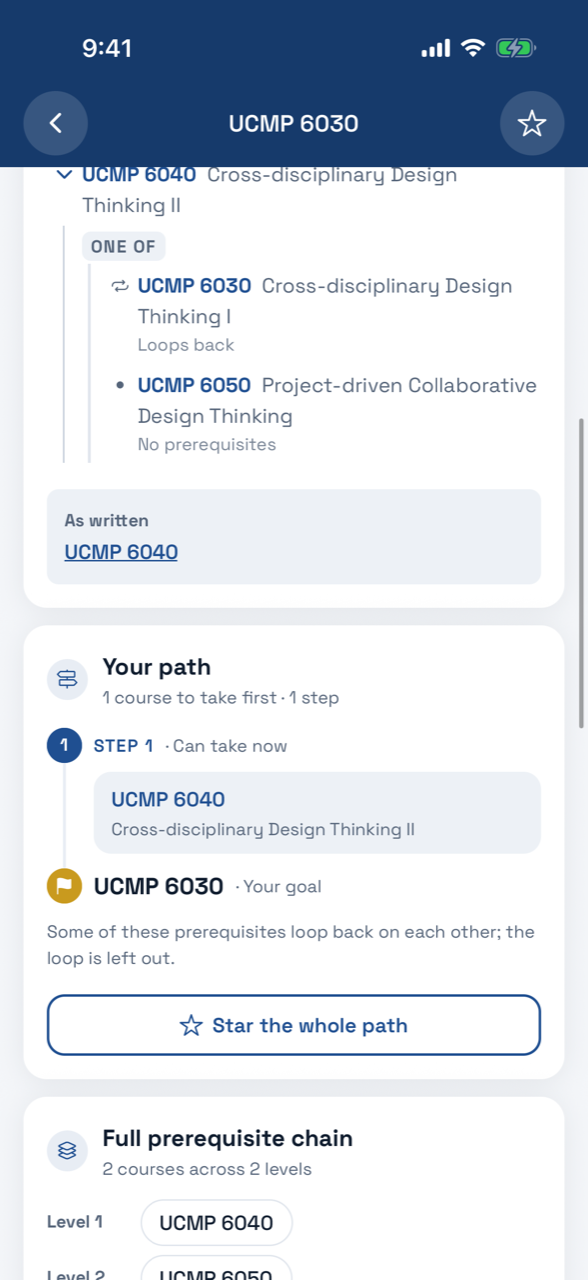
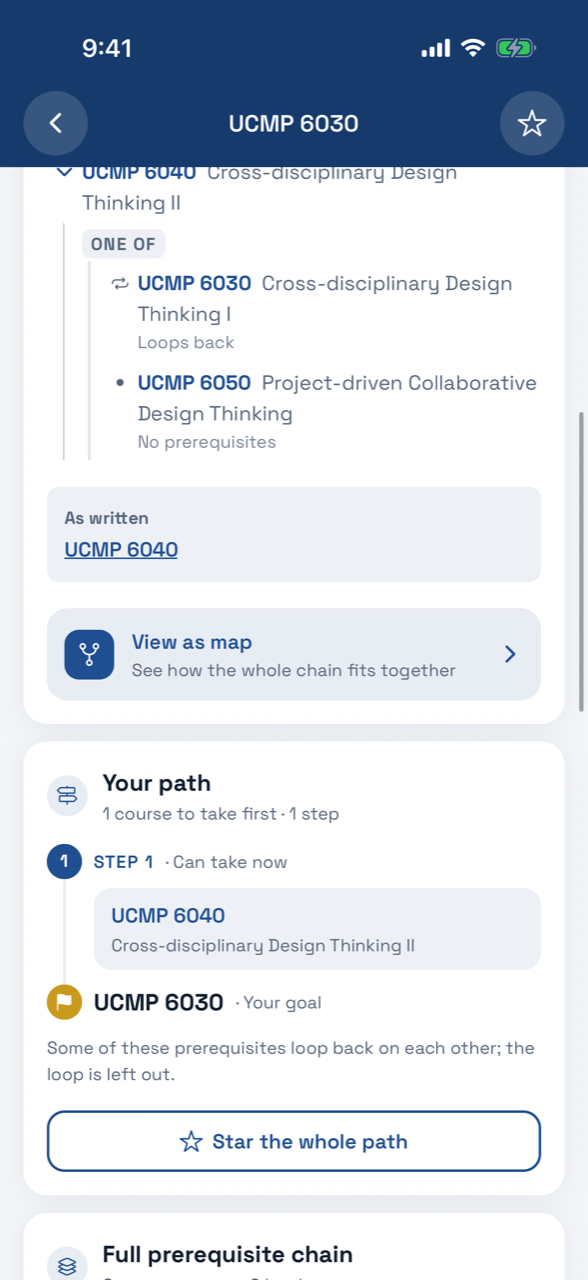
README: course map demo, screenshot and explanation; D20
- Three demo GIFs (find, map, plan) and a 10-screen gallery with the map
- README: the map in features and the at-a-glance table, how the layout works,
  timings, 71 tests and 7 flows, Android caveat now covers the map
- DECISIONS D20, BUILD-LOG 15; map demo flow and screenshot step

diff --git a/README.md b/README.md
@@ -4,12 +4,14 @@ A React Native + Expo app for browsing HKUST courses, understanding their prereq
 
 <table>
   <tr>
-    <td align="center"><img src="docs/demos/explore.gif" width="260" alt="Demo: filter sheet, title search, a course page and its prerequisite tree" /></td>
-    <td align="center"><img src="docs/demos/plan.gif" width="260" alt="Demo: starring a course offers its prerequisites; Your path shows the route and shrinks as courses are completed" /></td>
+    <td align="center"><img src="docs/demos/explore.gif" width="240" alt="Demo: filter sheet, title search, a course page and its prerequisite tree" /></td>
+    <td align="center"><img src="docs/demos/map.gif" width="240" alt="Demo: the prerequisite map, selecting a course to light up its lineage, zooming and re-centring" /></td>
+    <td align="center"><img src="docs/demos/plan.gif" width="240" alt="Demo: starring a course offers its prerequisites; Your path shows the route and shrinks as courses are completed" /></td>
   </tr>
   <tr>
     <td align="center"><b>Find a course</b><br/>Filter, search by title, follow the prerequisite tree</td>
-    <td align="center"><b>Plan the route</b><br/>Star with prerequisites, then watch "Your path" shrink as you complete courses</td>
+    <td align="center"><b>See the whole chain</b><br/>A zoomable map: select a course to light up its lineage</td>
+    <td align="center"><b>Plan the route</b><br/>Star with prerequisites, then watch "Your path" shrink</td>
   </tr>
 </table>
 
@@ -23,12 +25,12 @@ A React Native + Expo app for browsing HKUST courses, understanding their prereq
 | Browse and search | 4,030 courses; code and title search, ranked, with highlighted matches | [`catalog.ts`](app/data/catalog.ts) · Explore · `SearchAndOpenCourse` flow |
 | Filters | Term, level, department, "Unlocked for me", with a live result count | [`FilterSheet.tsx`](app/components/course/FilterSheet.tsx) · `FilterAndStar` flow |
 | Course details | Per-term content: credits, description, prerequisites, co-requisites, exclusions, attributes, outcomes | Course page |
-| **Prerequisite explorer** (required challenge) | Expandable AND/OR tree, tap to open any course, full chain, "Leads to" | [`parse.ts`](app/data/prereq/parse.ts), [`traverse.ts`](app/data/prereq/traverse.ts) · [how it works](#how-prerequisite-traversal-works) |
-| Cycles and missing courses | Real cycle (UCMP 6030 ↔ 6040) marked, not followed; missing courses and free text shown as such | `PrerequisiteCycle` flow · traversal tests |
+| **Prerequisite explorer** (required challenge) | Expandable AND/OR tree, tap to open any course, full chain, "Leads to", and a zoomable map of the whole chain | [`parse.ts`](app/data/prereq/parse.ts), [`traverse.ts`](app/data/prereq/traverse.ts), [`map.ts`](app/data/prereq/map.ts) · [how it works](#how-prerequisite-traversal-works) |
+| Cycles and missing courses | Real cycle (UCMP 6030 ↔ 6040) marked, not followed, in the tree and on the map; missing courses and free text shown as such | `PrerequisiteCycle`, `CourseMap` flows · traversal and map tests |
 | Optional features | Starring, completed courses and eligibility, "Unlocked for me", My Courses stats | [`evaluate.ts`](app/data/prereq/evaluate.ts) · `CompletionUnlocks` flow |
 | Beyond the brief | Star with prerequisites; "Your path", a planned route to any course | [`plan.ts`](app/data/prereq/plan.ts) · `StarPrerequisites`, `CoursePath` flows |
 | Documentation | Setup, architecture, data processing, traversal, assumptions; every decision and the build log | This README · [DECISIONS](docs/DECISIONS.md) · [BUILD-LOG](docs/BUILD-LOG.md) |
-| Quality | 62 Jest tests, 6 Maestro flows, data sweeps over every course and term, benchmarks | [Testing](#testing) · [Performance](#performance) |
+| Quality | 71 Jest tests, 7 Maestro flows, data sweeps over every course and term, benchmarks | [Testing](#testing) · [Performance](#performance) |
 
 ## What it does
 
@@ -43,6 +45,7 @@ A React Native + Expo app for browsing HKUST courses, understanding their prereq
 - Cycles are marked "↻ Loops back" instead of recursing (the data has a real one, `UCMP 6030 ↔ UCMP 6040`).
 - Courses missing from the catalogue and non-course requirements (HKDSE, IELTS…) are shown as such, and the original text is always shown under the tree.
 - Also: the **full chain** by level, and **"Leads to"**, the courses that list this one as a prerequisite.
+- **Course map** ([D20](docs/DECISIONS.md#d20--prerequisite-map-2026-09-27)): the whole chain and what the course leads to as a graph you can pan and pinch-zoom. "One of" groups meet at junctions, loops are dashed, completed and starred courses stand out, and your path is drawn through it. Tap a course to light up everything it needs and everything it feeds; re-centre the map on it to walk the curriculum.
 
 **Planning** *(beyond the brief)*:
 - **Completed courses** drive an eligibility check on every course page ("Still needed: one of COMP 2711 / COMP 2711H / MATH 2343") and the "Unlocked for me" filter: everything you can take next.
@@ -56,31 +59,29 @@ A React Native + Expo app for browsing HKUST courses, understanding their prereq
 
 <table>
   <tr>
-    <td><img src="docs/screenshots/explore.png" width="200" alt="Explore: the navy header, search and course cards" /></td>
-    <td><img src="docs/screenshots/filters.png" width="200" alt="Filter sheet with a live result count" /></td>
-    <td><img src="docs/screenshots/search.png" width="200" alt="Search with highlighted matches and active filter pills" /></td>
+    <td><img src="docs/screenshots/explore.png" width="150" alt="Explore: the navy header, search and course cards" /></td>
+    <td><img src="docs/screenshots/filters.png" width="150" alt="Filter sheet with a live result count" /></td>
+    <td><img src="docs/screenshots/search.png" width="150" alt="Search with highlighted matches and active filter pills" /></td>
+    <td><img src="docs/screenshots/course.png" width="150" alt="Course page: header, terms, and what's still needed" /></td>
+    <td><img src="docs/screenshots/prerequisites.png" width="150" alt="The prerequisite tree, expanded two levels" /></td>
   </tr>
   <tr>
     <td align="center"><sub>Explore</sub></td>
     <td align="center"><sub>Filters, with a live count</sub></td>
-    <td align="center"><sub>Search highlighting and filter pills</sub></td>
-  </tr>
-  <tr>
-    <td><img src="docs/screenshots/course.png" width="200" alt="Course page: header, terms, and what's still needed" /></td>
-    <td><img src="docs/screenshots/prerequisites.png" width="200" alt="The prerequisite tree, expanded two levels" /></td>
-    <td><img src="docs/screenshots/cycle.png" width="200" alt="A real prerequisite cycle, marked instead of recursing" /></td>
-  </tr>
-  <tr>
+    <td align="center"><sub>Search highlighting</sub></td>
     <td align="center"><sub>Course page and eligibility</sub></td>
-    <td align="center"><sub>Expandable prerequisite tree</sub></td>
+    <td align="center"><sub>Prerequisite tree</sub></td>
+  </tr>
+  <tr>
+    <td><img src="docs/screenshots/map.png" width="150" alt="The prerequisite map: direct prerequisites, their groups and your path" /></td>
+    <td><img src="docs/screenshots/cycle.png" width="150" alt="A real prerequisite cycle, marked instead of recursing" /></td>
+    <td><img src="docs/screenshots/star-prompt.png" width="150" alt="Starring a course you can't take yet offers its prerequisites" /></td>
+    <td><img src="docs/screenshots/path.png" width="150" alt="Your path: the courses to take, in order" /></td>
+    <td><img src="docs/screenshots/my-courses.png" width="150" alt="My Courses: completed, credits earned, starred" /></td>
+  </tr>
+  <tr>
+    <td align="center"><sub>Course map</sub></td>
     <td align="center"><sub>A real cycle, handled</sub></td>
-  </tr>
-  <tr>
-    <td><img src="docs/screenshots/star-prompt.png" width="200" alt="Starring a course you can't take yet offers its prerequisites" /></td>
-    <td><img src="docs/screenshots/path.png" width="200" alt="Your path: the courses to take, in order" /></td>
-    <td><img src="docs/screenshots/my-courses.png" width="200" alt="My Courses: completed, credits earned, starred" /></td>
-  </tr>
-  <tr>
     <td align="center"><sub>Star with prerequisites</sub></td>
     <td align="center"><sub>Your path</sub></td>
     <td align="center"><sub>My Courses</sub></td>
@@ -113,19 +114,19 @@ yarn data         # courses.json -> app/data/generated/ (~2 s)
 **Checks**
 
 ```bash
-yarn test         # 62 Jest tests: parser, traversal, eligibility, path planning, search on the real data
+yarn test         # 71 Jest tests: parser, traversal, eligibility, path planning, map layout, search
 yarn compile      # TypeScript
 yarn lint:check
 yarn bench        # data-layer micro-benchmarks
-maestro test -e MAESTRO_APP_ID=com.usthing.apptechtest27 .maestro/flows   # 6 end-to-end flows (needs Maestro + a running app)
+maestro test -e MAESTRO_APP_ID=com.usthing.apptechtest27 .maestro/flows   # 7 end-to-end flows (needs Maestro + a running app)
 ```
 
 ## Platforms tested
 
 | Platform | Build | Result |
 |---|---|---|
-| iOS 26.5 simulator, iPhone 17 / 17 Pro | Debug (dev client) and Release, including a Release build from a fresh `git clone` | All features; **6/6 Maestro flows pass** on the current code (Debug build). Release and fresh-clone builds were verified before D16–D19. Dark mode checked on every screen except the filter sheet and the Explore header. |
-| Android 16 (API 36) emulator, Pixel 8 | Debug (dev client) and Release APK | All features, light and dark mode, hardware back button; 4/4 Maestro flows passed on the Release build, **before** the filter sheet, header band, star prompt and "Your path" ([D16–D19](docs/DECISIONS.md#d16--filters-in-a-sheet-2026-09-26)). Not re-run since. |
+| iOS 26.5 simulator, iPhone 17 / 17 Pro | Debug (dev client) and Release, including a Release build from a fresh `git clone` | All features; **7/7 Maestro flows pass** on the current code (Debug build). Release and fresh-clone builds were verified before D16–D19. Dark mode checked on every screen except the filter sheet and the Explore header. |
+| Android 16 (API 36) emulator, Pixel 8 | Debug (dev client) and Release APK | All features, light and dark mode, hardware back button; 4/4 Maestro flows passed on the Release build, **before** the filter sheet, header band, star prompt, "Your path" and the course map ([D16–D20](docs/DECISIONS.md#d16--filters-in-a-sheet-2026-09-26)). Not re-run since; the map's `react-native-svg` needs an Android rebuild. |
 
 ---
 
@@ -144,12 +145,14 @@ flowchart LR
     trav["prereq/traverse.ts<br/>per-term trees · cycles · chain"]
     ev["prereq/evaluate.ts<br/>eligibility · what's missing"]
     plan["prereq/plan.ts<br/>Your path"]
+    mapl["prereq/map.ts<br/>map layout"]
   end
   idx --> cat
   det --> cat
   pre --> trav --> ev --> plan
+  trav --> mapl
   prefs[("MMKV<br/>starred · completed · term")]
-  cat & trav & ev & plan & prefs --> ui["Screens<br/>Explore · Course · My Courses"]
+  cat & trav & ev & plan & mapl & prefs --> ui["Screens<br/>Explore · Course · Map · My Courses"]
 ```
 
 The same `app/data` code runs in the build script, the app, the Jest tests and the benchmark.
@@ -163,8 +166,9 @@ app/data/
   prereq/traverse.ts         per-term lookup, cycle checks, full chain (BFS)
   prereq/evaluate.ts         tree vs. completed courses -> met / unmet / unknown; what's missing
   prereq/plan.ts             "Your path": one route to a course, in steps
+  prereq/map.ts              the course map: graph, columns, rows, lineage
   generated/                 index.json, prereqs.json, details/<DEPT>.json (committed)
-app/screens/                 ExploreScreen, CourseDetailScreen, MyCoursesScreen
+app/screens/                 ExploreScreen, CourseDetailScreen, CourseMapScreen, MyCoursesScreen
 app/components/course/       CourseRow, Chip, HeroHeader, FilterSheet, DepartmentPicker, PrereqTree,
                              StarPrompt, CoursePathView, LinkedCodesText
 app/utils/usePreferences.ts  starred / completed / selected term (MMKV)
@@ -229,6 +233,13 @@ It only evaluates a course's *direct* prerequisites (having completed a course i
 - Walking from the target records each chosen course's own chosen prerequisites, with the current path as a stack so loops are cut (and noted) instead of followed.
 - Each course's step is one more than its latest prerequisite's (a longest-path layering of the resulting DAG), so step 1 is "can take now" and the number of steps is the shortest possible sequence of terms.
 
+**8. The course map** (`prereq/map.ts`).
+- **Graph:** every course in the chain is expanded once; its tree becomes edges into it. A "one of" group with several options becomes a junction its options feed into (an "all of" nested inside one gets its own junction). "Leads to" adds only the courses that list this one directly.
+- **Loops:** a DFS backwards from the course marks any edge into a node still on the stack. Those edges are drawn (dashed) but don't take part in the layout, so the rest stays a DAG.
+- **Columns:** longest path: a course sits one column left of the leftmost course it's a prerequisite for, junctions half a column before theirs, so every edge points right.
+- **Rows:** column by column outwards from the course, each node aims for the average height of the nodes it connects to; the column is then spread to a minimum gap and shifted back onto those aims, which keeps most edges close to straight.
+- **Lineage** of a selected course is two graph walks (upstream and downstream) over the non-loop edges.
+
 ## Performance
 
 `yarn bench` on an M1 Pro (Node). Hermes on a phone is slower, but even 10× these numbers stays well under a 16 ms frame.
@@ -241,42 +252,47 @@ It only evaluates a course's *direct* prerequisites (having completed a course i
 | Full prerequisite chain of DSAA 3072 (9 levels) | 0.02 ms |
 | Evaluate all 4,030 courses for "Unlocked for me" | 0.3 ms |
 | "Your path" to CENG 5840 (the largest: 11 courses, 4 steps) | 0.02 ms |
-| "Your path" for all 4,030 courses | 7.7 ms |
+| "Your path" for all 4,030 courses | 7.9 ms |
+| Map of MATH 4996 (the largest: 59 nodes) | 0.14 ms |
+| Map for all 4,030 courses | 27 ms |
 
 The production iOS bundle is 9.5 MB of Hermes bytecode, mostly the lazily loaded detail chunks ([D9](docs/DECISIONS.md#d9--bundle-size-vs-startup-2026-09-24)).
 
 ## Testing
 
-- **Jest (62 tests):**
+- **Jest (71 tests):**
   - the parser on real-world strings (brackets, precedence, notes, `or above`, enumerators, unbalanced parentheses);
   - traversal (per-term lookup, cycles, self-reference, shared subtrees);
   - eligibility (three-valued logic, "still needed") and missing-prerequisite groups (nesting, duplicates, free text);
   - path planning (cheapest option, completed courses, starred options, shared prerequisites, ordering, loops);
+  - map layout (columns and junctions, every edge pointing right, no overlaps, one side at a time, loops, lineage);
   - search/filter/unlocked on the **real generated data**, and search-match highlighting;
   - plus the template's i18n key check.
-- **Data sweeps:** the star prompt's groups and "Your path" were run for every course in every term (15,178 cases): no crashes, no duplicate rows, no course on its own path.
-- **Maestro (6 flows in `.maestro/flows`):**
+- **Data sweeps:** the star prompt's groups and "Your path" were run for every course in every term (15,178 cases): no crashes, no duplicate rows, no course on its own path. The map was laid out for every course in all three modes (12,090 maps): no NaN positions, backward edges or overlapping nodes.
+- **Maestro (7 flows in `.maestro/flows`):**
   - search → open → follow a prerequisite → back;
   - the UCMP cycle;
   - filter sheet (department + level) → star → My Courses;
   - complete two courses → eligibility changes → "Unlocked for me";
   - the star prompt: defaults, changing picks, cancelling, "star only", already-starred, required, taken-together and not-in-catalogue courses, and every case with no prompt (120 steps);
-  - "Your path": contents, completing a course from the path, a starred option steering the route, starring the whole path, a loop, and no card when there's nothing to plan.
-- **Media:** `.maestro/screenshots.yaml` regenerates the screenshots above; `scripts/record-demo.sh explore|plan` records the demo GIFs from `.maestro/demos/` (needs ffmpeg).
+  - "Your path": contents, completing a course from the path, a starred option steering the route, starring the whole path, a loop, and no card when there's nothing to plan;
+  - the course map: fit, selecting (lineage and card), one side at a time, re-centring and coming back, opening a course from the map, the real loop, and no map when there's nothing to draw.
+- **Media:** `.maestro/screenshots.yaml` regenerates the screenshots above; `scripts/record-demo.sh explore|map|plan` records the demo GIFs from `.maestro/demos/` (needs ffmpeg).
 
 ## Assumptions and limitations
 
 - **Prerequisite parsing is best-effort**, as the brief allows. The rules cover the observed grammar, and anything unusual degrades to readable text rather than being dropped. The raw string is always shown next to the tree.
 - **Deeper tree levels use each course's newest version.** Only the course you're viewing follows the selected term, because "the prerequisites of a prerequisite in a given term" isn't well defined.
 - **"Leads to" spans all terms.** A course that listed this one as a prerequisite in any term is included.
+- **The map's "Leads to" is one level deep.** Transitively it explodes (MATH 1020 reaches 295 courses in three steps); "Centre map here" is the way further. Free-text requirements aren't drawn as nodes; a course that has them shows "+".
 - **"Your path" plans by prerequisites only.** It shows which seasons each course runs in, but doesn't schedule courses into specific terms, balance credit loads, or account for co-requisites and exclusions. Where the data offers a choice, it takes your starred option or the shortest route; star a different option to change it.
 - **Eligibility only checks course prerequisites.** Co-requisites, exclusions, grade conditions ("Grade A- or above") and non-course requirements aren't enforced. Grade notes are shown, and text requirements make the result "can't verify" rather than a guess.
 - **Section data (quota, enrolment, waitlist) isn't shown**, per the 2026-09-24 brief update. The dataset doesn't include it.
-- **Tested on simulators and emulators only**, not physical devices. Android hasn't been re-run since D16–D19 (see [Platforms tested](#platforms-tested)).
+- **Tested on simulators and emulators only**, not physical devices. Android hasn't been re-run since D16–D20 (see [Platforms tested](#platforms-tested)).
 
 ## What I'd do next
 
-1. **Re-run Android, and test on physical devices.** Android last passed before D16–D19, and nothing has run on real hardware yet.
+1. **Re-run Android, and test on physical devices.** Android last passed before D16–D20, and nothing has run on real hardware yet.
 2. **Schedule "Your path" into real terms.** It already knows each course's seasons and the order; placing steps into upcoming terms under a credit cap would turn the route into a study plan.
 3. **Co-requisites and exclusions** in eligibility and the path. They're shown on course pages but not enforced.
 4. **Typo-tolerant search.** Search is exact-substring on normalised codes and words; "algorthms" finds nothing.

diff --git a/docs/DECISIONS.md b/docs/DECISIONS.md
@@ -159,3 +159,16 @@ The department hue list swapped its plain blue for coral, so a badge never looks
 
 **Why:** The tree and the full chain show *everything* (DSAA 3072's chain is 22 courses); a student needs *a* route (3 courses). It reuses the parsed trees, stars and completed courses, costs 0.02 ms, and one tap stars the whole route.
 **Limits:** it plans by prerequisites only; it doesn't check which term a course runs in beyond showing its seasons, or credit loads, or co-requisites.
+
+### D20 · Prerequisite map (2026-09-27)
+
+**Decision:** A "Course map" screen, opened from any course page: the prerequisite chain and the courses it leads to, as a left-to-right graph you can pan, pinch-zoom and tap.
+- **Structure you can't see in lists:** "one of" / "all of" groups become small junctions where their options meet; loops are dashed amber arcs; the course glows navy; completed courses are green, starred ones gold; "Your path" is drawn as a thick line with step badges.
+- **Selecting** a course lights up its lineage (what it needs and what it feeds) and dims the rest; a card offers "Open course" and "Centre map here", which opens the map around that course, so you can walk the curriculum and come back.
+- **Layout** (`prereq/map.ts`, pure TypeScript): longest-path columns (every edge points right, junctions half a column before their course), then rows placed outwards from the course at the average height of their neighbours and spread to a minimum gap. Loops are found with a DFS and left out of the layout.
+- **Leads to is one level deep:** transitively it explodes (MATH 1020 reaches 295 courses in three steps). "Centre map here" is how you go further.
+- **Rendering:** nodes are views, edges are SVG paths, and the whole canvas is one transformed view driven by Reanimated. It's drawn at 1.5× and zoom stops at 100%: scaling a view *up* on iOS blurs its text, scaling down doesn't. Taps are hit-tested against the layout, so one gesture detector handles pan, pinch, double-tap and tap.
+- **First frame:** the whole map if it's readable that way; otherwise the course's neighbourhood (direct prerequisites, the course, what it leads to), falling back to prerequisites and the course when that's too wide.
+
+**Why:** The tree shows one branch at a time and the full chain is a flat list; neither shows *shape*: where branches merge, which courses are bottlenecks, where your route runs. Chains are small (median 0, 99th percentile 20 courses, largest 59 nodes with junctions), so the whole thing fits and lays out in well under a millisecond.
+**Cost:** `react-native-svg` (the standard Expo package; a native module, so the dev client was rebuilt) and a `GestureHandlerRootView` at the app root. **Considered:** Skia (smoother at huge sizes, but a heavier native dependency and unnecessary at these sizes) and a force-directed layout (organic but unstable between opens, and it hides the before/after direction that matters here).

diff --git a/docs/BUILD-LOG.md b/docs/BUILD-LOG.md
@@ -92,3 +92,10 @@ Chronological notes on how the app was built. The reasoning behind each choice i
 
 **14 · README media**
 - `.maestro/screenshots.yaml` regenerates the 9 screenshots; `.maestro/demos/` + `scripts/record-demo.sh` record the two demo GIFs (trimmed, 1.5x).
+
+**15 · Prerequisite map** (D20)
+- Sized it first on the real data: prerequisite chains are small (99th percentile 20 courses), "leads to" explodes (295 within three steps of MATH 1020), so leads-to is one level deep.
+- `buildCourseMap()` with 9 unit tests; a sweep of all 12,090 maps (every course × 3 modes) found no NaN positions, backward edges or overlaps; 0.14 ms for the largest.
+- Added `react-native-svg` and rebuilt the iOS dev client; added `GestureHandlerRootView` at the root (gestures outside a modal had none).
+- Found on the simulator: a tap's `maxDuration` expired while it waited to rule out a double-tap; the dot grid stopped at the map's edges; small maps opened cut off; selecting while zoomed right out stayed unreadable. All fixed.
+- Maestro flow `CourseMap` (58 steps). Full suite: 71 Jest tests, 7/7 Maestro flows on iOS. Map demo GIF and screenshot added.
